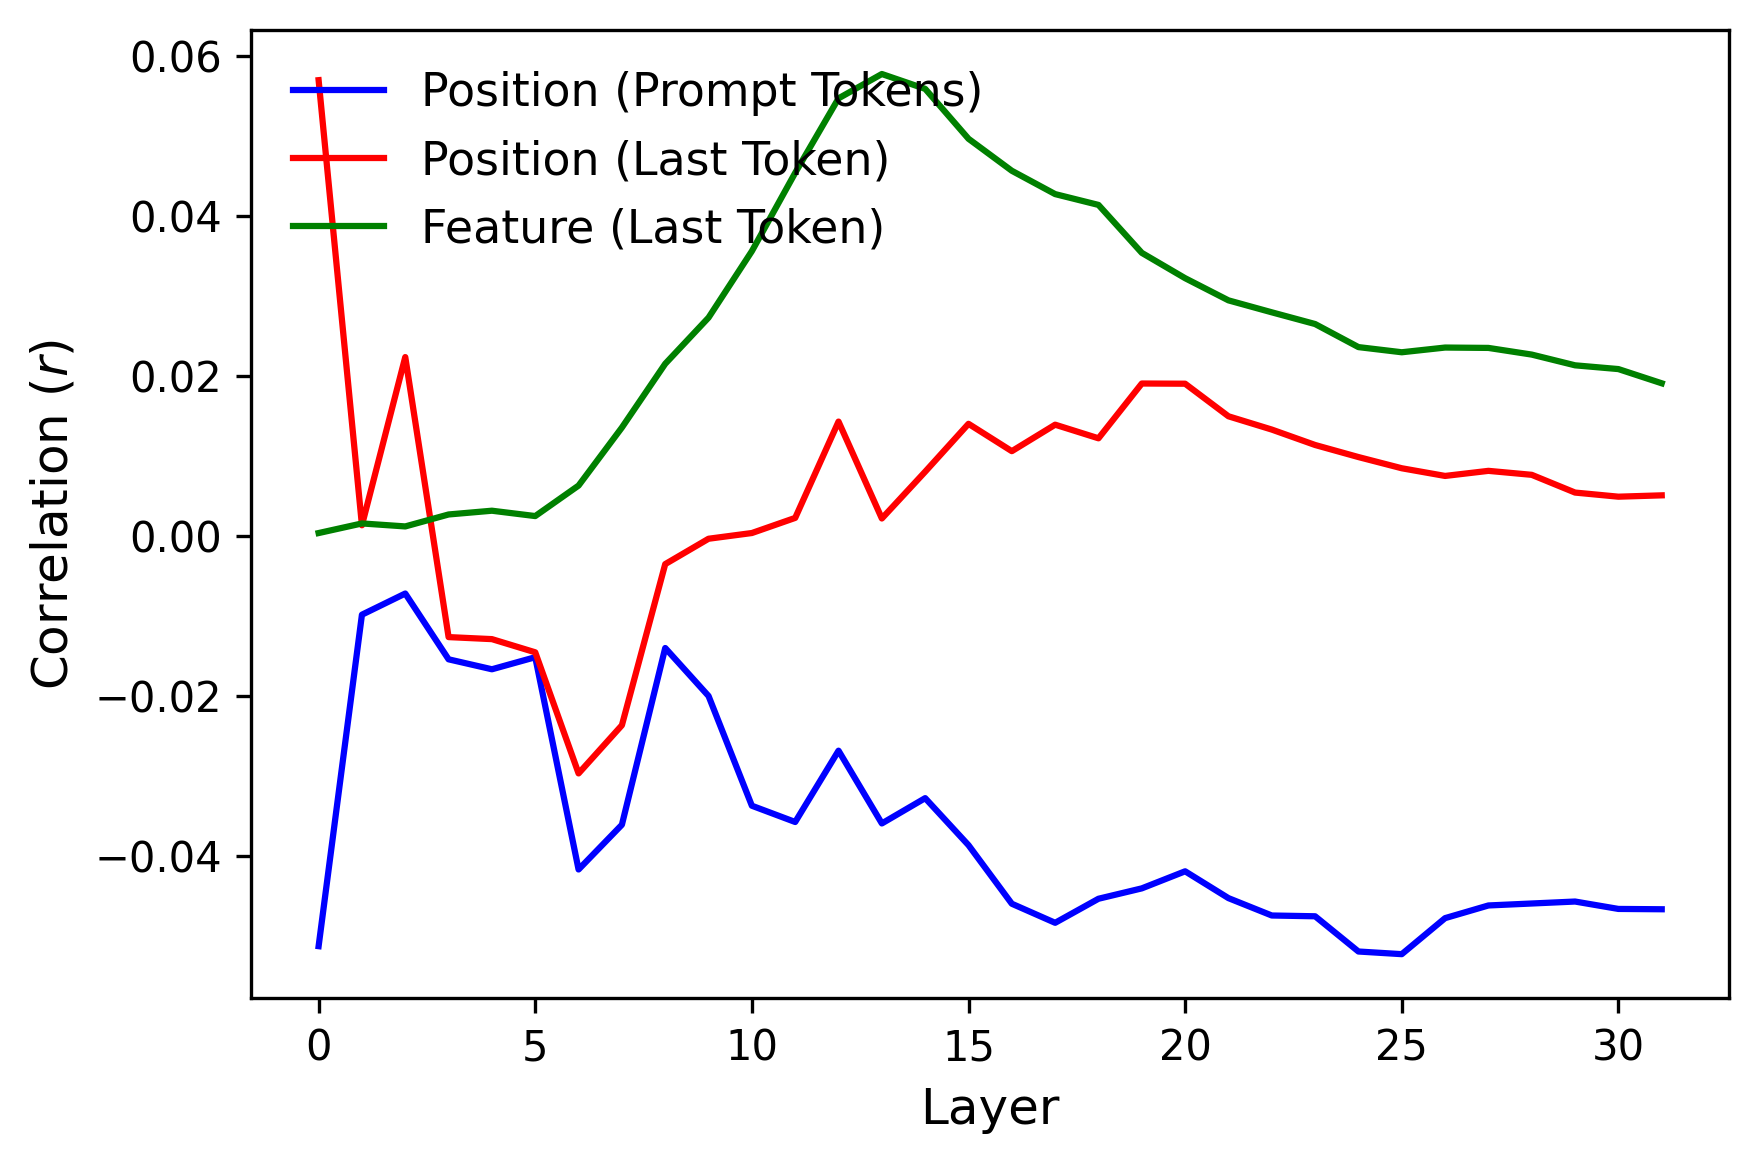
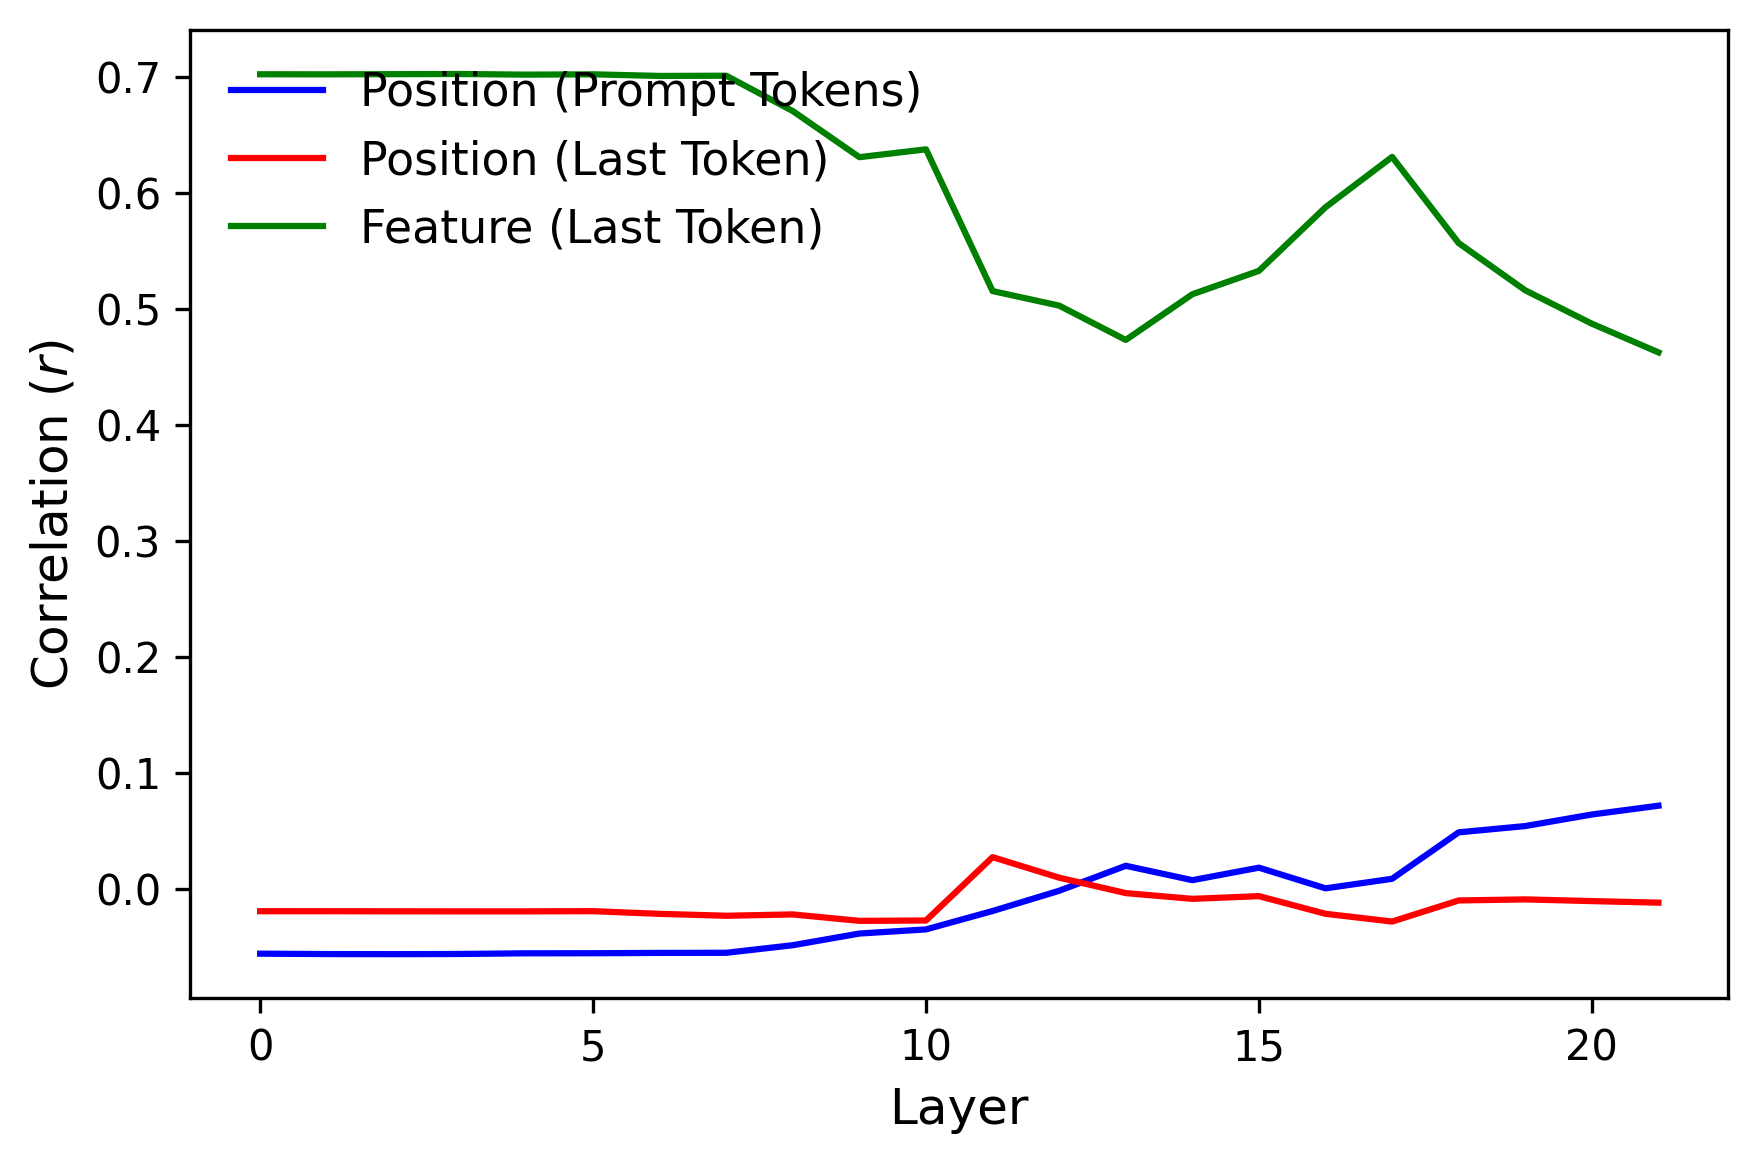
refactor

diff --git a/src/utils/tools.py b/src/utils/tools.py
@@ -1,6 +1,6 @@
 import torch
 from nnsight import LanguageModel
-from typing import Any
+from typing import Dict, Any, List, Tuple
 import gc
 
 def predict(
@@ -23,3 +23,124 @@ def predict(
     # print(f"Model predicted: '{generated_text.strip()}'")
     
     return generated_text
+
+def _build_object_ids(trials: List[Dict[str, Any]] = None) -> List[List[int]]:
+    """
+    Build stable object ids from (color, shape) pairs.
+    Objects sharing the same (color, shape) get the same object_id.
+    """
+    object_id_by_feature: Dict[Tuple[str, str], int] = {}
+    trial_object_ids: List[List[int]] = []
+
+    for t in trials:
+        trial = t['trial']
+        ids_for_trial: List[int] = []
+        for obj in trial:
+            key = (obj['color'], obj['shape'])
+            if key not in object_id_by_feature:
+                object_id_by_feature[key] = len(object_id_by_feature)
+            ids_for_trial.append(object_id_by_feature[key])
+        trial_object_ids.append(ids_for_trial)
+
+    token_object_ids: List[List[int]] = []
+    if trials is not None:
+        for trial in trials:
+            ids_for_token: List[int] = []
+            for i in range(len(trial['trial'])):
+                key = (trial['trial'][i]['color'], trial['trial'][i]['shape'])
+                ids_for_token.append((object_id_by_feature[key], trial['trial'][i]['index']))
+            token_object_ids.append(ids_for_token)
+    print('*** object_id_by_feature *** \n', object_id_by_feature)
+    return trial_object_ids, token_object_ids
+
+
+def _resolve_trial_object_index(object_token_indices: List[int], object_position: int) -> int:
+    """
+    Resolve token index for a given object position within a trial.
+    Fallback to the last available index when fewer indices are provided.
+    """
+    if len(object_token_indices) == 0:
+        raise ValueError("trial_data['trial'] cannot be empty.")
+
+    if object_position < len(object_token_indices):
+        return object_token_indices[object_position]
+
+    return object_token_indices[-1]
+
+def _resolve_token_object_index(object_token_indices: List[Dict[str, Any]], object_position: int) -> int:
+    """
+    Resolve token index for a given object position within a trial.
+    Fallback to the last available index when fewer indices are provided.
+    """
+    if len(object_token_indices) == 0:
+        raise ValueError("trial_data['trial'] cannot be empty.")
+
+    if object_position < len(object_token_indices):
+        return object_token_indices[object_position]['index']
+
+    return object_token_indices[-1]['index']
+
+def _resolve_layer_path(model: LanguageModel, path_string: str):
+    """
+    Safely traverses the nnsight model architecture to return the exact 
+    PyTorch module based on the config's string path.
+    
+    Example: 
+        path_string = "model.language_model.model.layers[8]"
+    """
+    # We split by '.' and handle list indices like 'layers[8]'
+    current_module = model
+    parts = path_string.split('.')
+    
+    for part in parts:
+        if '[' in part and ']' in part:
+            attr_name, index_part = part.split('[')
+            index = int(index_part.replace(']', ''))
+            current_module = getattr(current_module, attr_name)[index]
+        else:
+            current_module = getattr(current_module, part)
+            
+    return current_module
+
+def _resolve_text_model_dims(model: Any) -> Tuple[int, int]:
+    """
+    Resolve (hidden_size, num_attention_heads) across wrapped/unwrapped VLM models.
+    Works when `model.config` is missing/None (common with wrappers).
+    """
+    candidate_configs: List[Any] = []
+
+    # Direct config on the visible object
+    candidate_configs.append(getattr(model, "config", None))
+
+    # Common nnsight/HF wrapper patterns
+    local_model = getattr(model, "local_model", None)
+    if local_model is not None:
+        candidate_configs.append(getattr(local_model, "config", None))
+
+    nested_model = getattr(model, "model", None)
+    if nested_model is not None:
+        candidate_configs.append(getattr(nested_model, "config", None))
+        language_model = getattr(nested_model, "language_model", None)
+        if language_model is not None:
+            candidate_configs.append(getattr(language_model, "config", None))
+
+    # Some multimodal models expose text dims under text_config
+    expanded_configs: List[Any] = []
+    for cfg in candidate_configs:
+        if cfg is None:
+            continue
+        expanded_configs.append(cfg)
+        text_cfg = getattr(cfg, "text_config", None)
+        if text_cfg is not None:
+            expanded_configs.append(text_cfg)
+
+    for cfg in expanded_configs:
+        hidden_size = getattr(cfg, "hidden_size", None)
+        num_heads = getattr(cfg, "num_attention_heads", None)
+        if isinstance(hidden_size, int) and isinstance(num_heads, int) and num_heads > 0:
+            return hidden_size, num_heads
+
+    raise AttributeError(
+        "Could not resolve hidden_size/num_attention_heads from model object. "
+        "Expected fields on config or text_config."
+    )

diff --git a/src/mech_interp/tracer.py b/src/mech_interp/tracer.py
@@ -3,126 +3,7 @@ from nnsight import LanguageModel
 from typing import Dict, Any, List, Tuple
 import gc
 
-def _build_object_ids(trials: List[Dict[str, Any]] = None) -> List[List[int]]:
-    """
-    Build stable object ids from (color, shape) pairs.
-    Objects sharing the same (color, shape) get the same object_id.
-    """
-    object_id_by_feature: Dict[Tuple[str, str], int] = {}
-    trial_object_ids: List[List[int]] = []
-
-    for t in trials:
-        trial = t['trial']
-        ids_for_trial: List[int] = []
-        for obj in trial:
-            key = (obj['color'], obj['shape'])
-            if key not in object_id_by_feature:
-                object_id_by_feature[key] = len(object_id_by_feature)
-            ids_for_trial.append(object_id_by_feature[key])
-        trial_object_ids.append(ids_for_trial)
-
-    token_object_ids: List[List[int]] = []
-    if trials is not None:
-        for trial in trials:
-            ids_for_token: List[int] = []
-            for i in range(len(trial['trial'])):
-                key = (trial['trial'][i]['color'], trial['trial'][i]['shape'])
-                ids_for_token.append((object_id_by_feature[key], trial['trial'][i]['index']))
-            token_object_ids.append(ids_for_token)
-    print('*** object_id_by_feature *** \n', object_id_by_feature)
-    return trial_object_ids, token_object_ids
-
-
-def _resolve_trial_object_index(object_token_indices: List[int], object_position: int) -> int:
-    """
-    Resolve token index for a given object position within a trial.
-    Fallback to the last available index when fewer indices are provided.
-    """
-    if len(object_token_indices) == 0:
-        raise ValueError("trial_data['trial'] cannot be empty.")
-
-    if object_position < len(object_token_indices):
-        return object_token_indices[object_position]
-
-    return object_token_indices[-1]
-
-def _resolve_token_object_index(object_token_indices: List[Dict[str, Any]], object_position: int) -> int:
-    """
-    Resolve token index for a given object position within a trial.
-    Fallback to the last available index when fewer indices are provided.
-    """
-    if len(object_token_indices) == 0:
-        raise ValueError("trial_data['trial'] cannot be empty.")
-
-    if object_position < len(object_token_indices):
-        return object_token_indices[object_position]['index']
-
-    return object_token_indices[-1]['index']
-
-def _resolve_layer_path(model: LanguageModel, path_string: str):
-    """
-    Safely traverses the nnsight model architecture to return the exact 
-    PyTorch module based on the config's string path.
-    
-    Example: 
-        path_string = "model.language_model.model.layers[8]"
-    """
-    # We split by '.' and handle list indices like 'layers[8]'
-    current_module = model
-    parts = path_string.split('.')
-    
-    for part in parts:
-        if '[' in part and ']' in part:
-            attr_name, index_part = part.split('[')
-            index = int(index_part.replace(']', ''))
-            current_module = getattr(current_module, attr_name)[index]
-        else:
-            current_module = getattr(current_module, part)
-            
-    return current_module
-
-def _resolve_text_model_dims(model: Any) -> Tuple[int, int]:
-    """
-    Resolve (hidden_size, num_attention_heads) across wrapped/unwrapped VLM models.
-    Works when `model.config` is missing/None (common with wrappers).
-    """
-    candidate_configs: List[Any] = []
-
-    # Direct config on the visible object
-    candidate_configs.append(getattr(model, "config", None))
-
-    # Common nnsight/HF wrapper patterns
-    local_model = getattr(model, "local_model", None)
-    if local_model is not None:
-        candidate_configs.append(getattr(local_model, "config", None))
-
-    nested_model = getattr(model, "model", None)
-    if nested_model is not None:
-        candidate_configs.append(getattr(nested_model, "config", None))
-        language_model = getattr(nested_model, "language_model", None)
-        if language_model is not None:
-            candidate_configs.append(getattr(language_model, "config", None))
-
-    # Some multimodal models expose text dims under text_config
-    expanded_configs: List[Any] = []
-    for cfg in candidate_configs:
-        if cfg is None:
-            continue
-        expanded_configs.append(cfg)
-        text_cfg = getattr(cfg, "text_config", None)
-        if text_cfg is not None:
-            expanded_configs.append(text_cfg)
-
-    for cfg in expanded_configs:
-        hidden_size = getattr(cfg, "hidden_size", None)
-        num_heads = getattr(cfg, "num_attention_heads", None)
-        if isinstance(hidden_size, int) and isinstance(num_heads, int) and num_heads > 0:
-            return hidden_size, num_heads
-
-    raise AttributeError(
-        "Could not resolve hidden_size/num_attention_heads from model object. "
-        "Expected fields on config or text_config."
-    )
+from src.utils.tools import _resolve_layer_path, _build_object_ids, _resolve_text_model_dims
 
 def extract_hidden_states(
     model: LanguageModel, 

diff --git a/src/plots/rsa_1c.py b/src/plots/rsa_1c.py
@@ -4,7 +4,8 @@ import yaml
 import numpy as np
 from PIL import Image
 
-from src.math_core.rsa import compute_rsa_scores, _build_object_ids, build_target_rsms
+from src.utils.tools import _build_object_ids
+from src.math_core.rsa import compute_rsa_scores, build_target_rsms
 from src.mech_interp.tracer import rsa_tracer
 from src.model.loader import load_vlm
 from src.data.synthetic_generator import generate_custom_image
@@ -157,19 +158,18 @@ def main():
             objects.append({'color': color, 'shape': shape})
     print("all objects:", objects)
 
-    permutations = []
-    for i in range(4):
-        object1 = objects[i]
-        for j in range(4):
-            if j not in [i]:
-                object2 = objects[j]
-                for k in range(4):
-                    if k not in [i, j]:
-                        object3 = objects[k]
-                        for z in range(4):
-                            if z not in [i, j, k]:
-                                permutations.append([object1, object2, object3, objects[z]])
-
+    def get_permutations(objects):
+        if len(objects) == 1:
+            return [objects]
+        per_list = []
+        for i in range(len(objects)):
+            sub_list = objects[0:i] + objects[i+1:]
+            for item in get_permutations(sub_list):
+                item.append(objects[i])
+                per_list.append(item)
+        return per_list
+    
+    permutations = get_permutations(objects)
     # To save memory in local mode, we will slice the first 10 permutations. 
     # Increase this for a smoother correlation curve.
     for p in permutations:

diff --git a/src/math_core/rsa.py b/src/math_core/rsa.py
@@ -4,7 +4,7 @@ from scipy.spatial.distance import pdist, squareform
 from scipy.stats import pearsonr
 from typing import Dict, List, Any
 
-from src.mech_interp.tracer import _build_object_ids, _resolve_trial_object_index, _resolve_token_object_index
+from src.utils.tools import _build_object_ids, _resolve_trial_object_index, _resolve_token_object_index
 
 def build_target_rsms(trials: List[Dict[str, Any]], trial_object_ids: List[List[int]]) -> Dict[str, np.ndarray]:
     """

diff --git a/src/mech_interp/causal_patch.py b/src/mech_interp/causal_patch.py
@@ -1,7 +1,7 @@
 import torch
 from nnsight import LanguageModel
 from typing import Dict, Any
-from src.mech_interp.tracer import _resolve_layer_path
+from src.utils.tools import _resolve_layer_path
 
 def calculate_shift_vector(
     source_coord: torch.Tensor, 